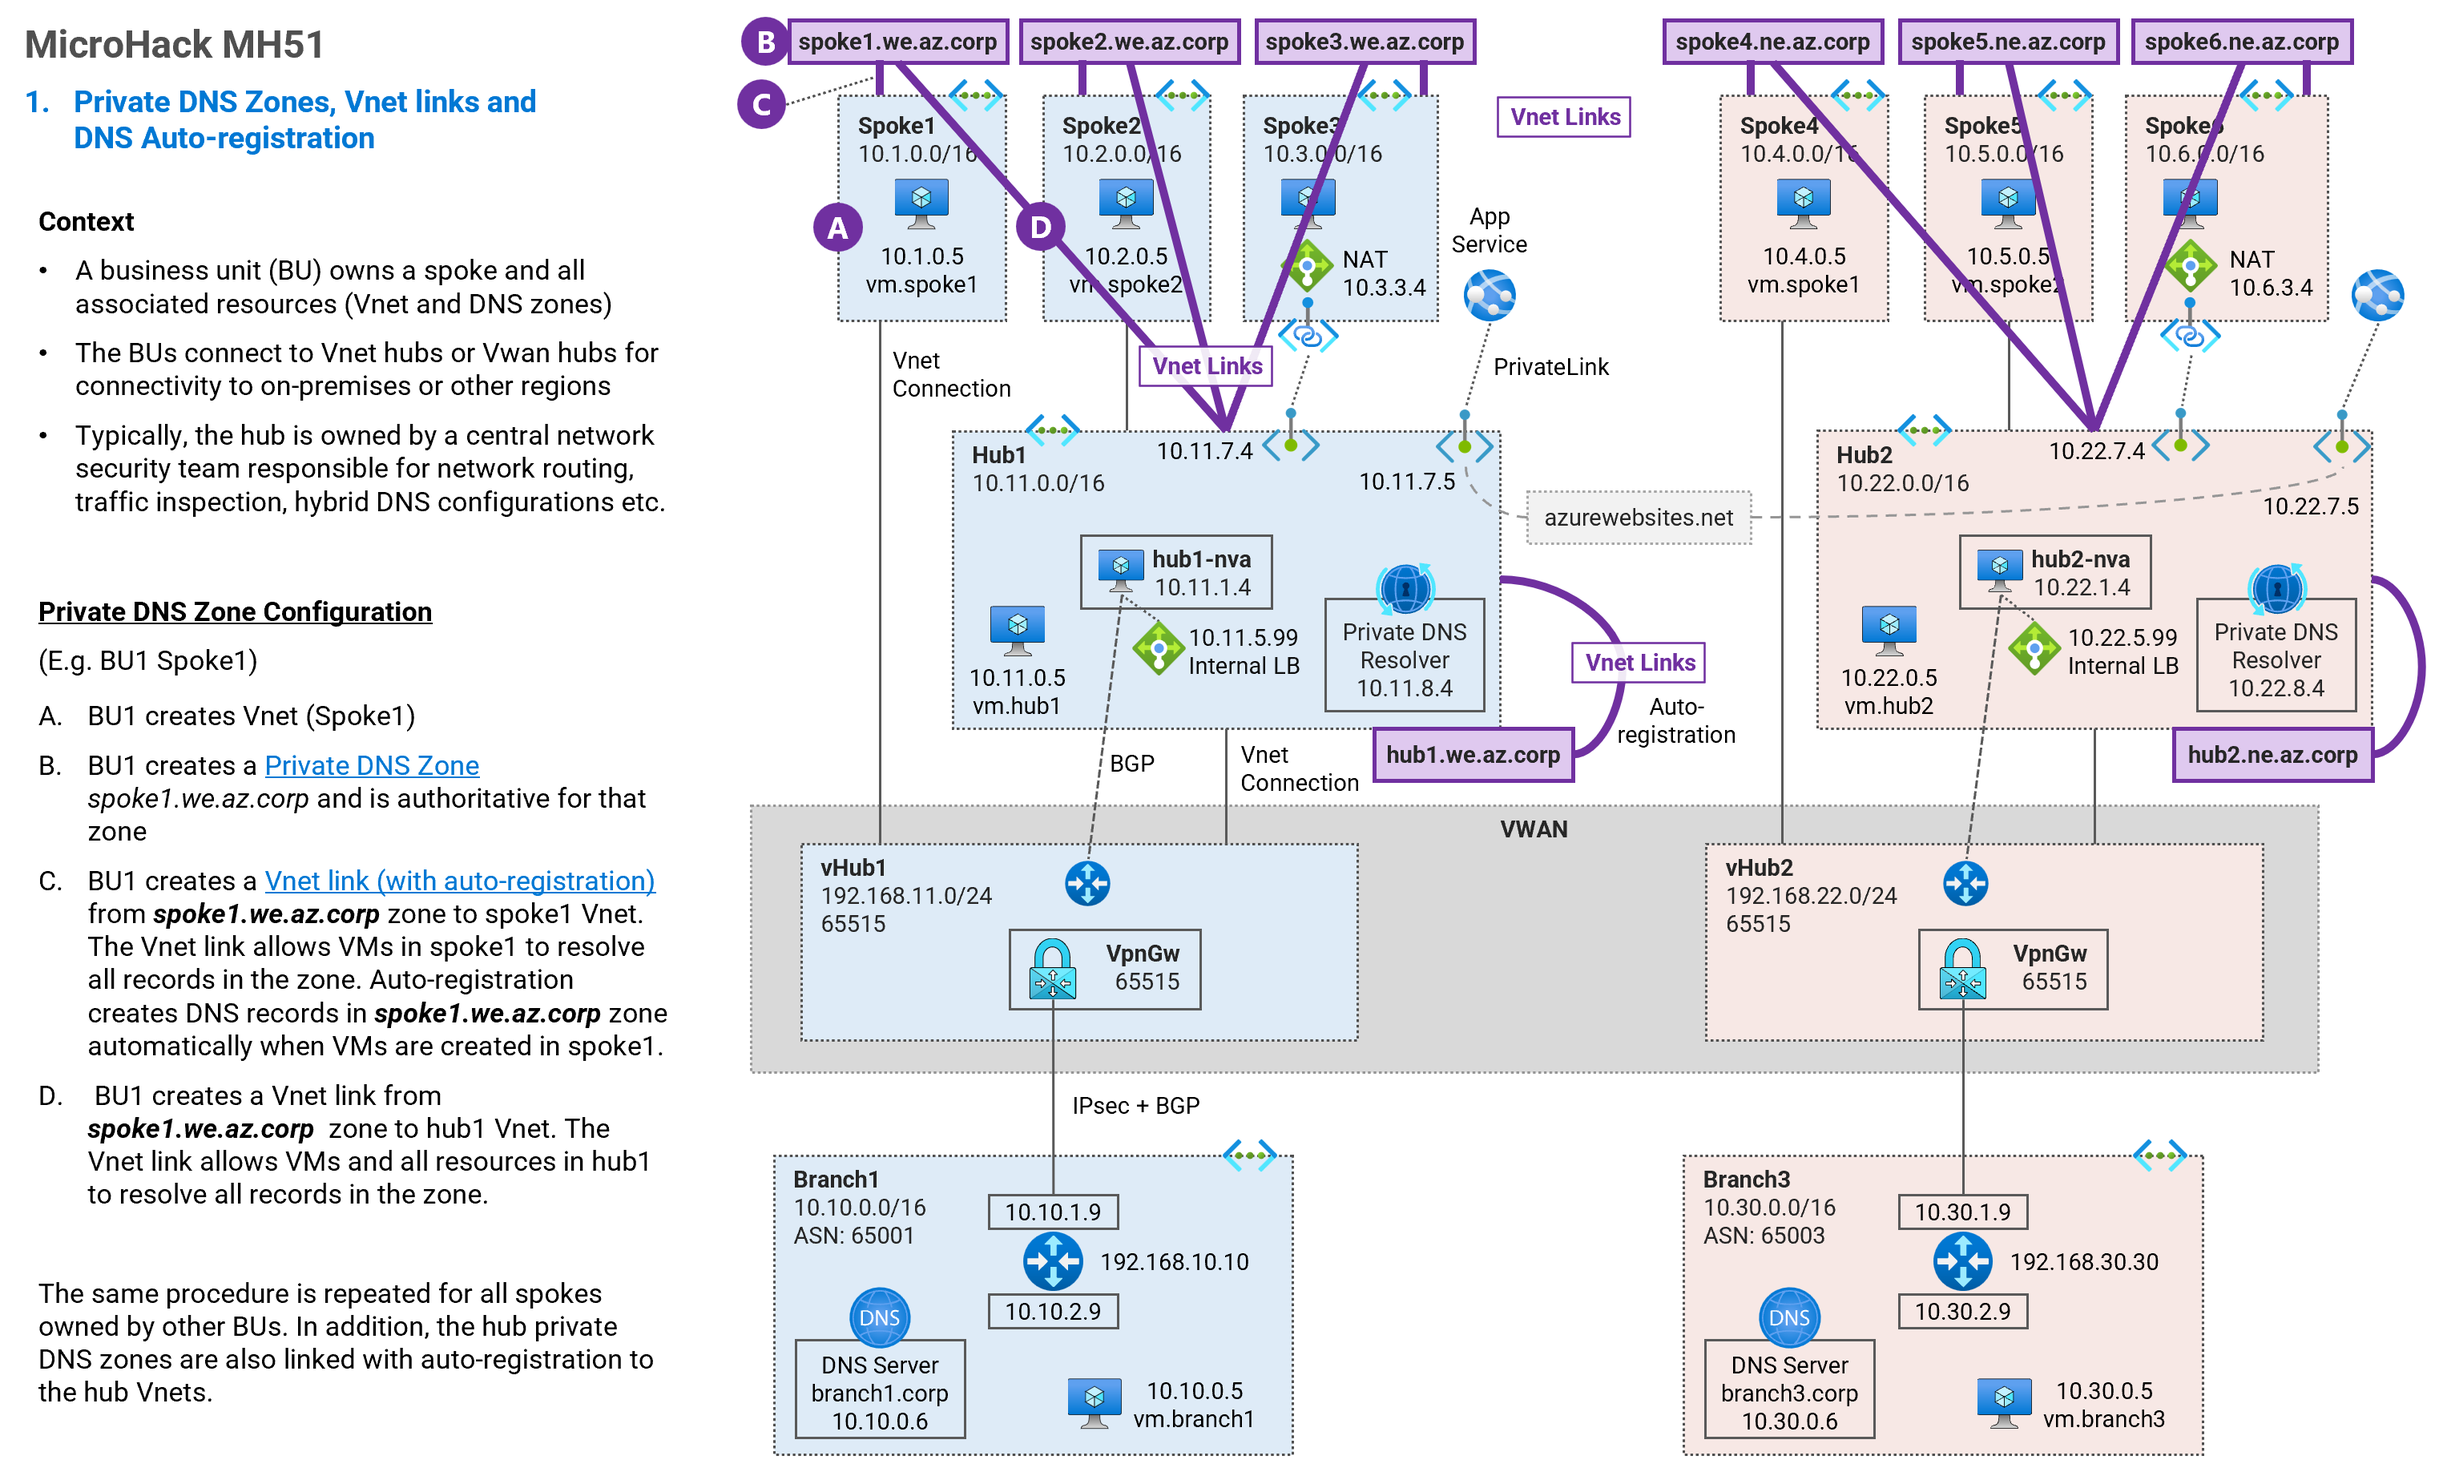
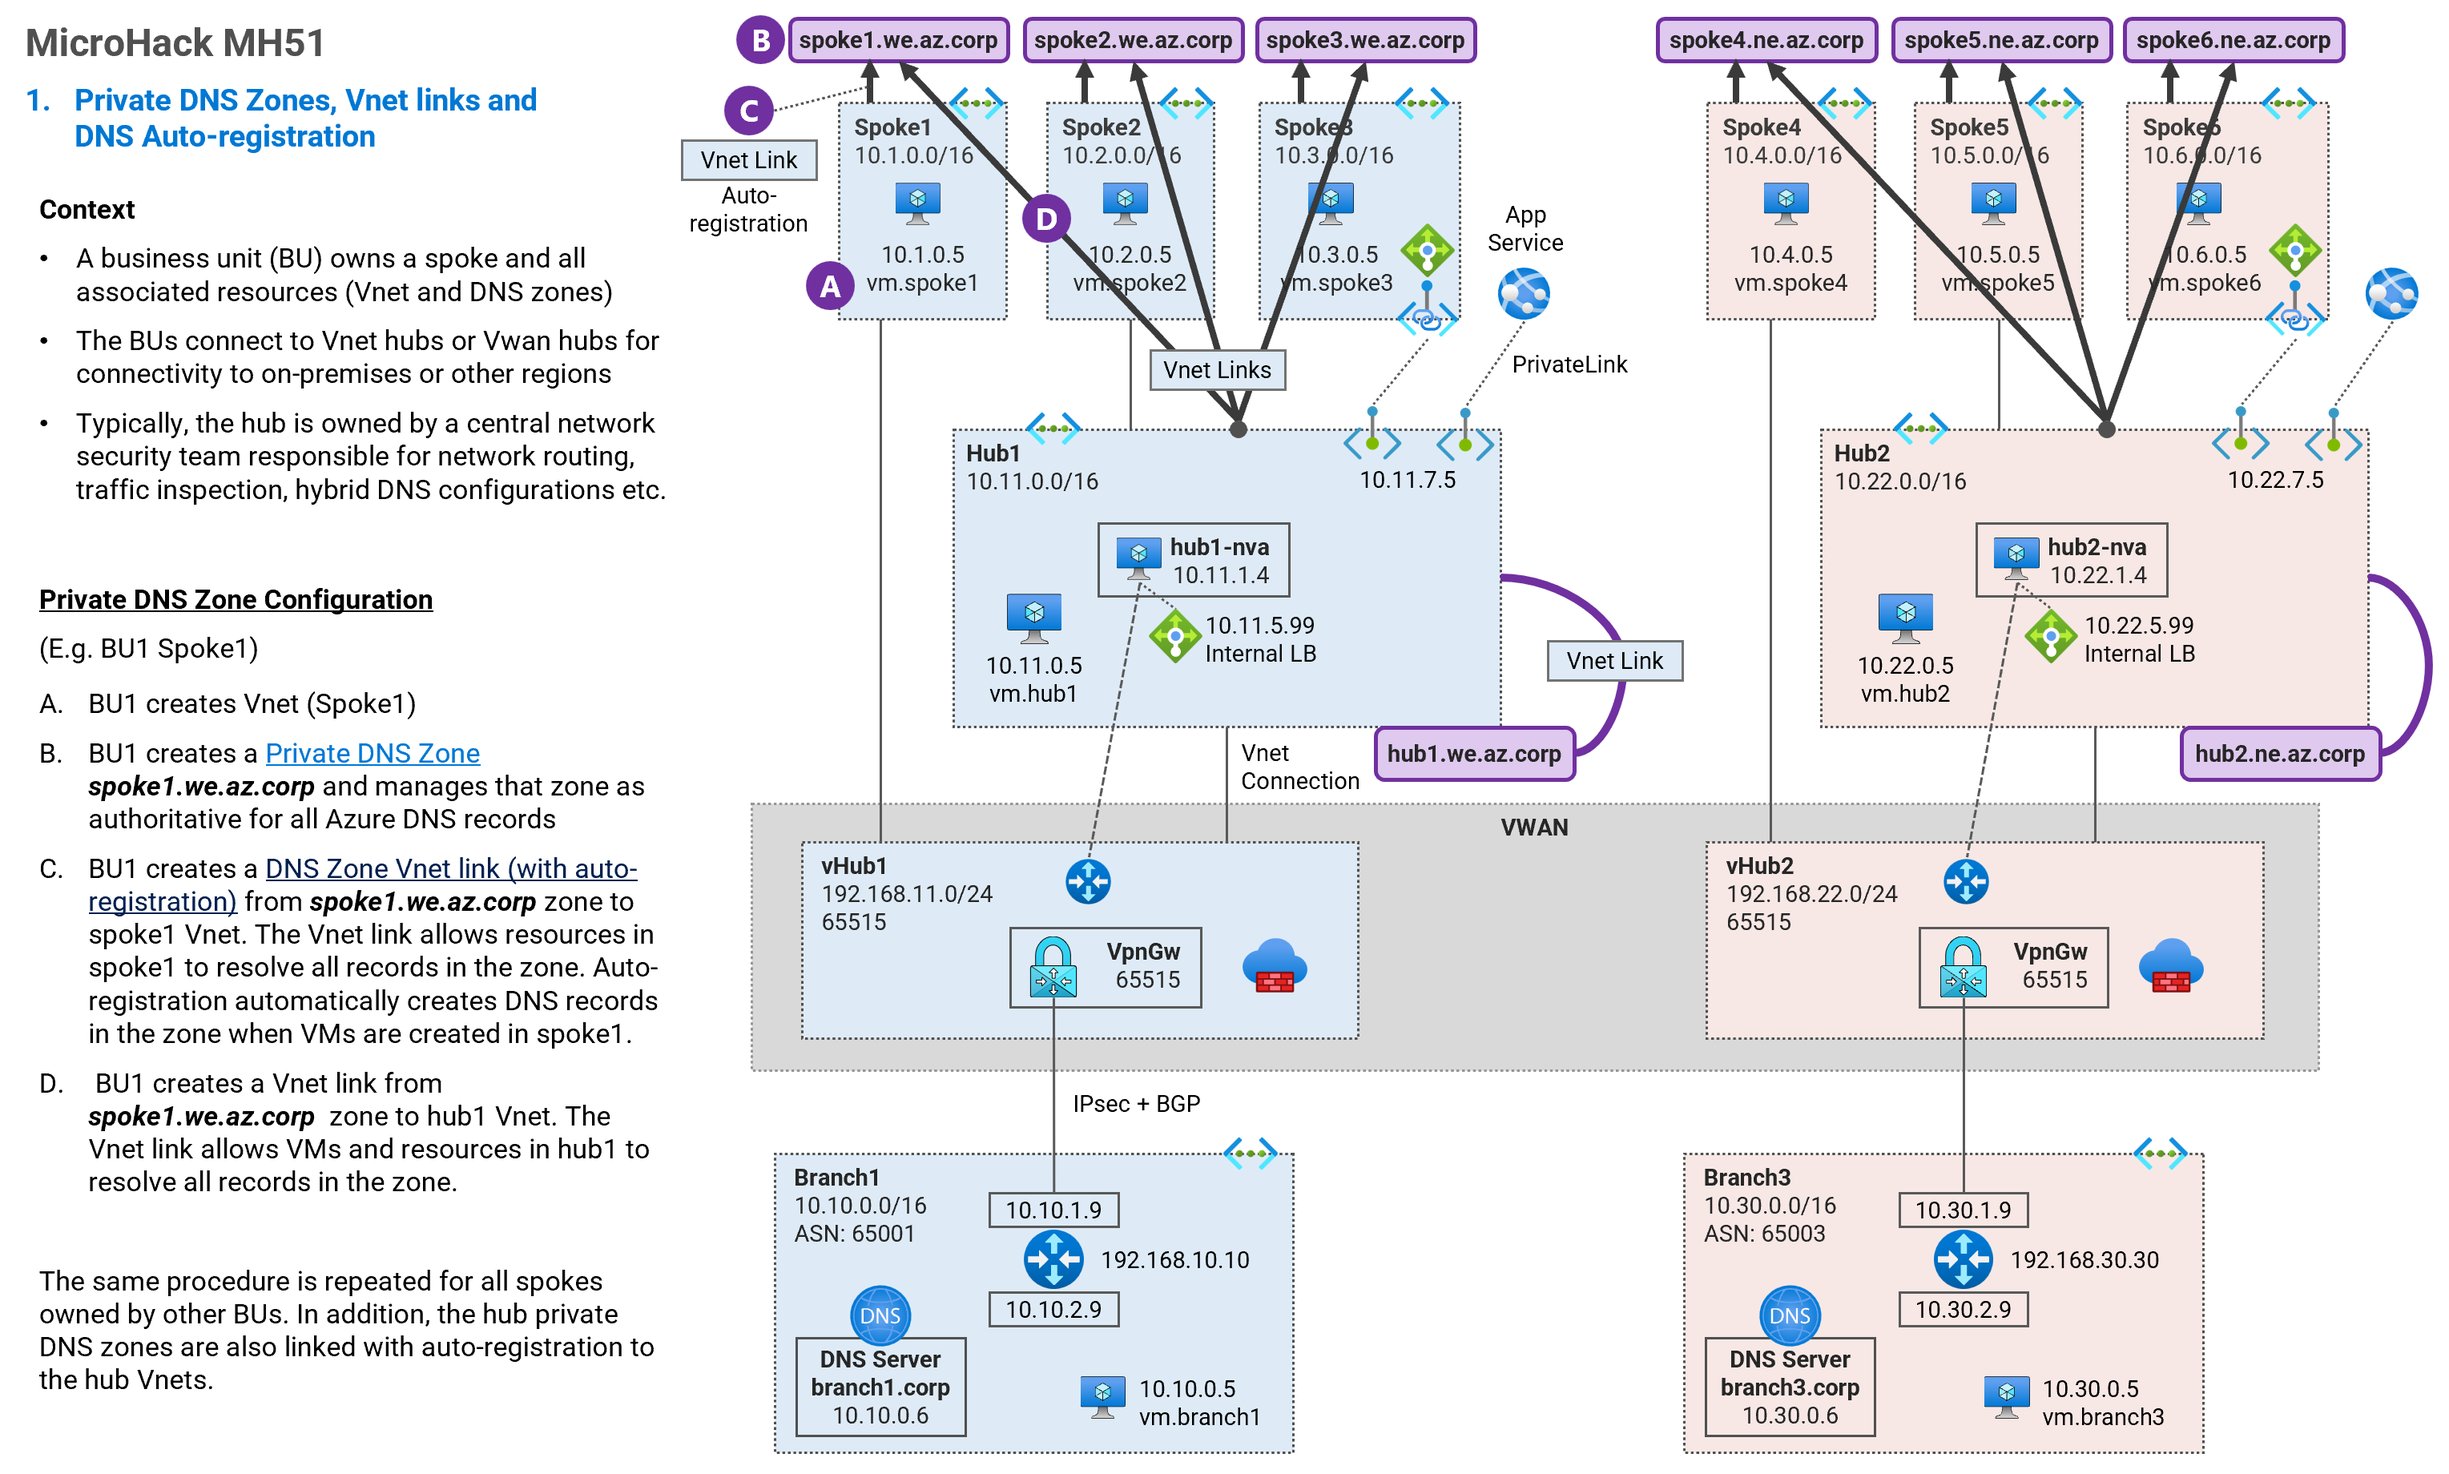
added microhack images

diff --git a/5-micro-hacks/1-vwan-dual-region-private-dns/README.md b/5-micro-hacks/1-vwan-dual-region-private-dns/README.md
@@ -49,7 +49,7 @@ Deploy a dual-region Secured Virtual WAN (Vwan) topology which will server as th
 * PaaS services (App Service) to be accessed publicly and privately.
 * [Routing Intent](https://learn.microsoft.com/en-us/azure/virtual-wan/how-to-routing-policies) in the virtual hubs for traffic inspection.
 
-![Secured Virtual WAN - Dual Region](../../images/scenarios/2-4-vwan-sec-dual-region.png)
+![Secured Virtual WAN - Dual Region](../../images/microhacks/mh51-0-base-lab-deployment.png)
 
 ***Spoke2*** and ***spoke5*** are indirect spokes from a Vwan perspective; and are connected to standard Vnet hubs - ***hub1*** and ***hub2*** respectively. ***Spoke2*** and ***spoke5*** use the Network Virtual Appliance (NVA) in the Vnet hubs as the next hop for traffic to all destinations.
 
@@ -153,29 +153,29 @@ curl-dns
 Sample output
 
 ```sh
-azureuser@mH51_Vwan_Dns-spoke1-vm:~$ curl-dns
+azureuser@mH51VwanDns-spoke1-vm:~$ curl-dns
 
  curl dns ...
 
-200 (0.058916s) - 10.10.0.5 - vm.branch1.corp
-200 (0.029715s) - 10.11.0.5 - vm.hub1.we.az.corp
-200 (0.021327s) - 10.11.7.4 - spoke3.p.hub1.we.az.corp
-200 (0.010701s) - 10.1.0.5 - vm.spoke1.we.az.corp
-200 (0.031434s) - 10.2.0.5 - vm.spoke2.we.az.corp
-000 (2.000205s) -  - vm.spoke3.we.az.corp
-200 (0.103006s) - 10.30.0.5 - vm.branch3.corp
-200 (0.077312s) - 10.22.0.5 - vm.hub2.ne.az.corp
-200 (0.076840s) - 10.22.7.4 - spoke6.p.hub2.ne.az.corp
-200 (0.082892s) - 10.4.0.5 - vm.spoke4.ne.az.corp
-200 (0.093531s) - 10.5.0.5 - vm.spoke5.ne.az.corp
-000 (2.001372s) -  - vm.spoke6.ne.az.corp
-200 (0.021990s) - 104.18.115.97 - icanhazip.com
-200 (0.036351s) - 10.11.7.5 - vwan24-spoke3-0425.azurewebsites.net
-200 (0.064745s) - 10.22.7.5 - vwan24-spoke6-0425.azurewebsites.net
+000 (0.045774s) -  - vm.branch1.corp
+000 (0.078401s) -  - vm.hub1.we.az.corp
+000 (0.087987s) -  - spoke3.p.hub1.we.az.corp
+000 (0.082900s) -  - vm.spoke1.we.az.corp
+000 (0.077184s) -  - vm.spoke2.we.az.corp
+000 (0.088936s) -  - vm.spoke3.we.az.corp
+000 (0.055307s) -  - vm.branch3.corp
+000 (0.091453s) -  - vm.hub2.ne.az.corp
+000 (0.025416s) -  - spoke6.p.hub2.ne.az.corp
+000 (0.032110s) -  - vm.spoke4.ne.az.corp
+000 (0.039810s) -  - vm.spoke5.ne.az.corp
+000 (0.154529s) -  - vm.spoke6.ne.az.corp
+200 (0.022036s) - 104.18.115.97 - icanhazip.com
+200 (0.034683s) - 20.119.8.30 - spoke3-f946.azurewebsites.net
+200 (0.211198s) - 20.107.224.16 - spoke6-f946.azurewebsites.net
 ```
 
-We can see that DNS resolution fails for all VMs. That is expected because we have not yet configured private DNS.
+We can see that private DNS resolution failed for all VMs. That is expected because we have not yet configured private DNS. We have public DNS resolution for Internet and public endpoints for app services.
 
 ## NEXT STEP <!-- omit from toc -->
-Go to exercise [1. Private DNS Zones, Vnet links and DNS auto-registration](./exercises/1.%20Private%20DNS%20Zones,%20Vnet%20links%20and%20DNS%20auto-registration.md.md)
+Go to exercise [1. Private DNS Zones, Vnet links and DNS auto-registration](./exercises/1.%20Private%20DNS%20Zones,%20Vnet%20links%20and%20DNS%20Auto-registration.md)
 

diff --git a/5-micro-hacks/1-vwan-dual-region-private-dns/exercises/2. DNS Resolution between On-premises and Azure.md b/5-micro-hacks/1-vwan-dual-region-private-dns/exercises/2. DNS Resolution between On-premises and Azure.md
@@ -6,6 +6,29 @@ MicroHack MH51: Private DNS - Secured Virtual WAN (Dual Region) <!-- omit from t
 
 Contents
 
+- [Overview](#overview)
+- [Task 1: DNS Resolution from Azure to On-premises](#task-1-dns-resolution-from-azure-to-on-premises)
+- [Task 2: DNS Resolution from On-premises to Azure](#task-2-dns-resolution-from-on-premises-to-azure)
+
+
+## Overview
+
+## Task 1: DNS Resolution from Azure to On-premises
+
+In this task, we will test DNS resolution in `spoke1-vm1` to resolve the on-premises DNS ***vm.branch1.corp***. This requires a private DNS resolver in the ***hub1*** vnet to forward the DNS query to the on-premises DNS server running dnsmasq.
+
+![mh51-2-dns-resolution-from-azure-to-on-premises](../../images/../../images/microhacks/mh51-2-1-azure-to-onprem.png)
+
+## Task 2: DNS Resolution from On-premises to Azure
+
+In this task, we will test DNS resolution in the on-premises DNS ***branch1-vm*** to resolve the Azure DNS ***vm.spoke1.we.az.corp***. This will use the private DNS resolver in ***hub1*** vnet to resolve the Azure DNS query using Azure DNS. We will also configure DNS forwarding on the dnsmasq onpremises DNS server to forward the query to the ***hub1** DNS inbound endpoint.
+
+![mh51-2-dns-resolution-from-on-premises-to-azure](../../images/../../images/microhacks/mh51-2-2-onprem-to-azure.png)
+
+## CONGRATULATIONS! <!-- omit from toc -->
+
+You have completed this exercise.
+
 ## NEXT STEP <!-- omit from toc -->
 Go to exercise - [3. DNS Resolution between Spokes](./3.%20DNS%20Resolution%20between%20Spokes.md)
 

diff --git a/5-micro-hacks/1-vwan-dual-region-private-dns/exercises/1. Private DNS Zones, Vnet links and DNS Auto-registration.md b/5-micro-hacks/1-vwan-dual-region-private-dns/exercises/1. Private DNS Zones, Vnet links and DNS Auto-registration.md
@@ -19,7 +19,6 @@ In this exercise we will:
 * Test DNS resolution to the Private DNS zones
 
 ![mh51-1-private-dns-zones-links](../../images/../../images/microhacks/mh51-1-private-dns-zones-links.png)
-<img src="../../images/../../images/microhacks/mh51-1-private-dns-zones-links.png" width=800></br>
 
 
 ## NEXT STEP <!-- omit from toc -->
